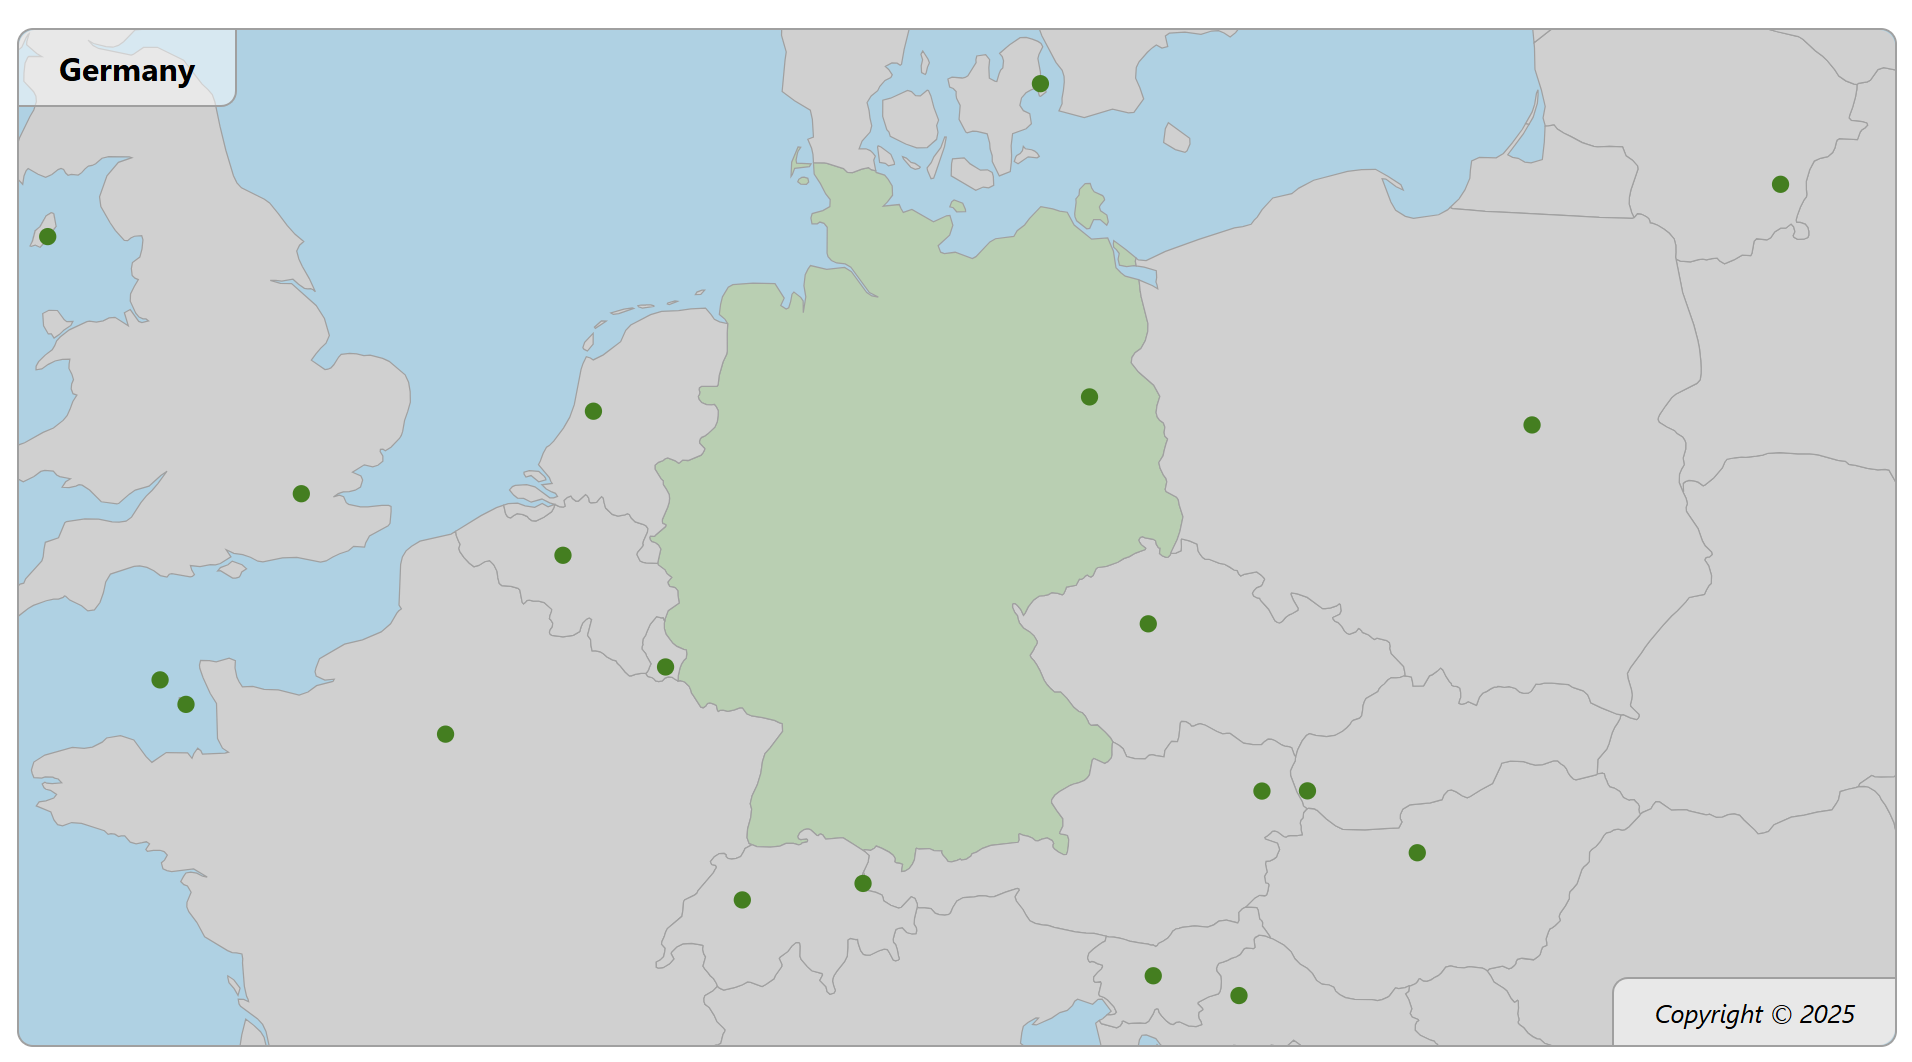
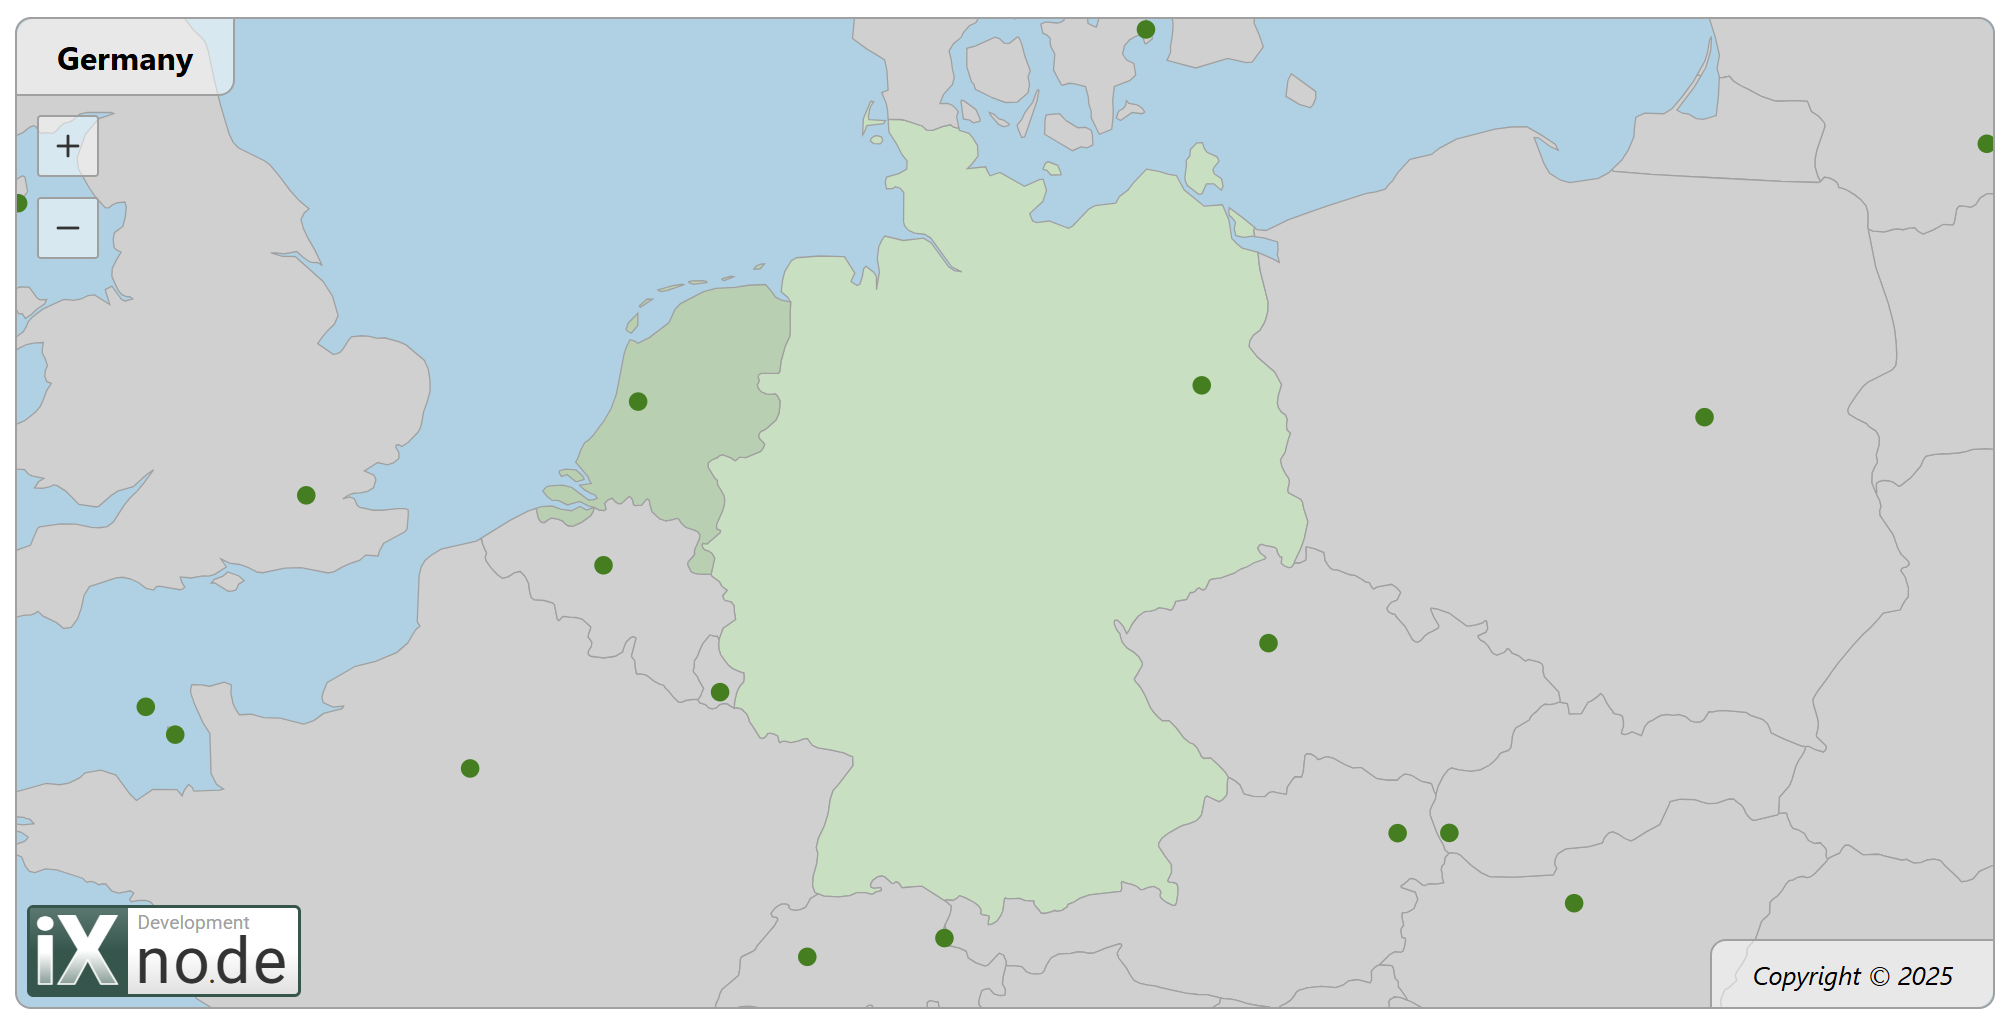
Update README.md documentation

diff --git a/README.md b/README.md
@@ -83,16 +83,27 @@ const App = () => (
 export default App;
 ```
 
+The callback function logs something like (according to clicked country):
+
+```json
+{
+  "id": "de",
+  "name": "Germany"
+}
+```
+
 ## 🔧 Props
 
-| Prop             | Type                                                                   | Default  | Description                      |
-|------------------|------------------------------------------------------------------------|----------|----------------------------------|
-| `dataSource`     | `'tiny'\|'low'\|'medium'`                                              | `'low'`  | The data source to be used.      |
-| `country`        | `string\|null`                                                         | `null`   | The country that is marked.      |
-| `width`          | `number`                                                               | `1000`   | The width of the map in pixels.  |
-| `height`         | `number`                                                               | `500`    | The height of the map in pixels. |
-| `language`       | `'cz'`\|`'de'`\|`'en'`\|`'es'`\|`'fr'`\|`'hr'`\|`'it'`\|`'pl'`\|`'sv'` | `'en'`   | The language to be used.         |
-| `onClickCountry` | `(data: ClickCountryData) => void\|null`                               | `null`   | An optional click handler.       |
+| Prop             | Type                                                                   | Default | Description                                                                                     |
+|------------------|------------------------------------------------------------------------|---------|-------------------------------------------------------------------------------------------------|
+| `dataSource`     | `'tiny'\|'low'\|'medium'`                                              | `'low'` | The data source to be used.                                                                     |
+| `country`        | `string\|null`                                                         | `null`  | The country that is marked.                                                                     |
+| `width`          | `number`                                                               | `1000`  | The width of the map in pixels. Only used for ratio. The svg is always 100% of parent element.  |
+| `height`         | `number`                                                               | `500`   | The height of the map in pixels. Only used for ratio. The svg is always 100% of parent element. |
+| `language`       | `'cz'`\|`'de'`\|`'en'`\|`'es'`\|`'fr'`\|`'hr'`\|`'it'`\|`'pl'`\|`'sv'` | `'en'`  | The language to be used.                                                                        |
+| `onClickCountry` | `(data: ClickCountryData) => void\|null`                               | `null`  | An optional click handler.                                                                      |
+| `debug`          | `boolean`                                                              | `false` | Flag to enable or disable the debug mode.                                                       |
+| `logo`           | `boolean`                                                              | `true`  | Flag to enable or disable the logo.                                                             |
 
 ### Common countries (`country`)
 
